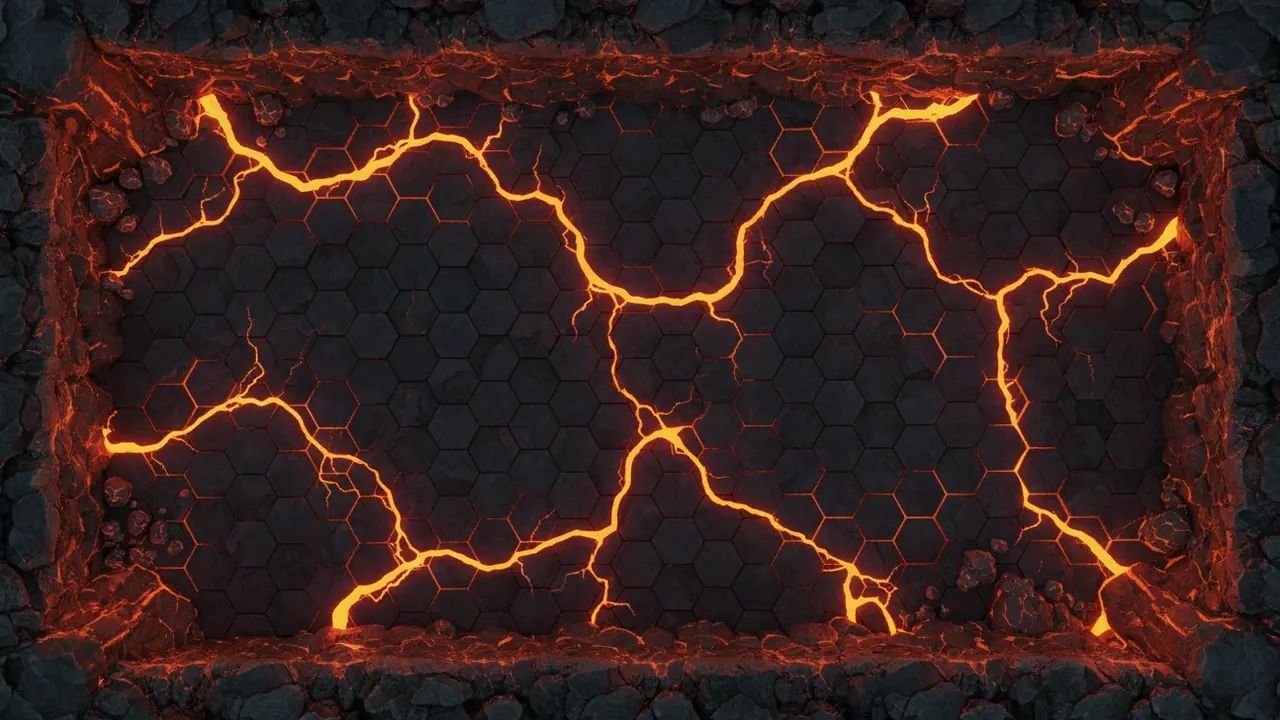
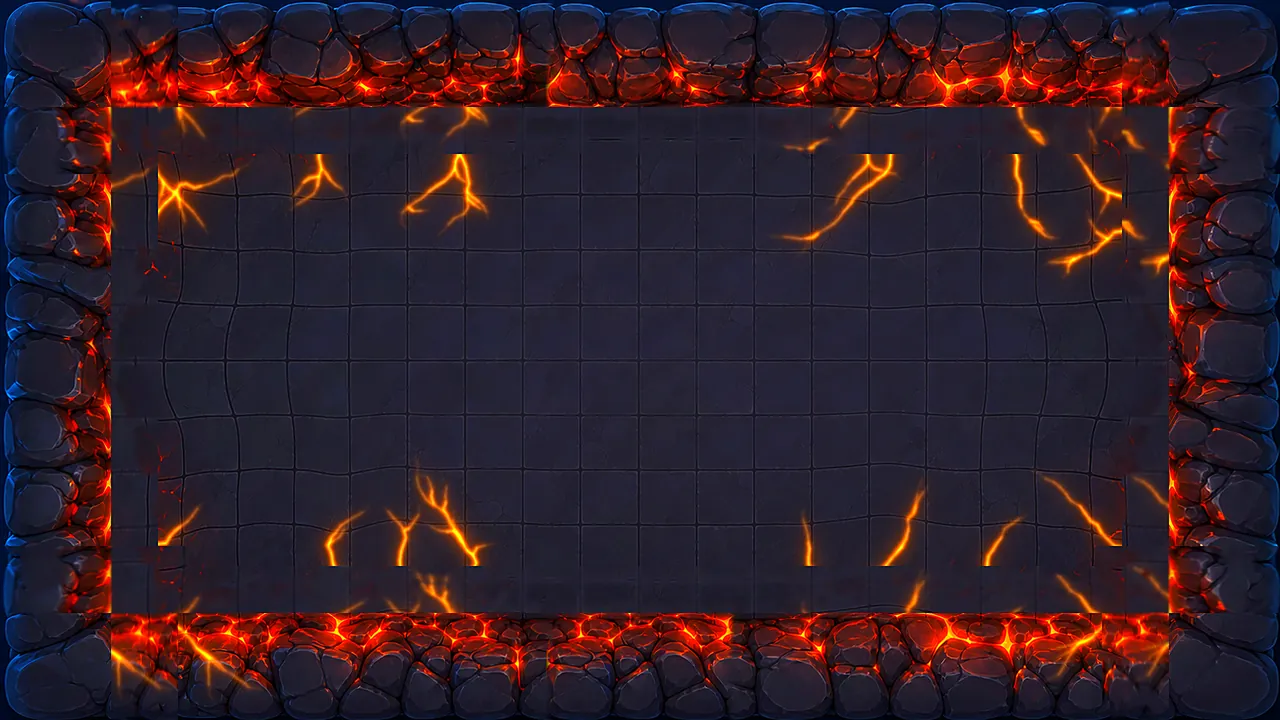
Glimmerdeep: Wilds art refresh, batch 1 (#399)
Replace the four room paintings and seven Wilds props, draw the crack at the door width, and size the tamer at 1.3.

diff --git a/glimmerdeep/wilds.js b/glimmerdeep/wilds.js
@@ -461,7 +461,7 @@ function draw() {
   // creatures and the tamer, back to front
   const ents = V.mons.map(m => ({ y: m.y, f: () => sprite(ctx, img('cr_' + room().mon.sp + room().mon.star), ox + m.x * S, oy + m.y * S, m.sz * S, m.fx || -1, Math.sin(m.bob) * 0.04, m.lair, m.shiny) }));
   for (const [x, y, rr] of rockList(room())) ents.push({ y, f: () => drawRock(ctx, ox, oy, S, x, y, rr) });
-  ents.push({ y: V.py, f: () => { if (V.inv > 0 && Math.floor(V.inv * 10) % 2) ctx.globalAlpha = 0.5; sprite(ctx, img('wd_tamer'), ox + V.px * S, oy + V.py * S, 1.15 * S, V.fx, Math.abs(Math.sin(V.walk)) * 0.07, false); ctx.globalAlpha = 1; } });
+  ents.push({ y: V.py, f: () => { if (V.inv > 0 && Math.floor(V.inv * 10) % 2) ctx.globalAlpha = 0.5; sprite(ctx, img('wd_tamer'), ox + V.px * S, oy + V.py * S, 1.3 * S, V.fx, Math.abs(Math.sin(V.walk)) * 0.07, false); ctx.globalAlpha = 1; } });
   ents.sort((p, q) => p.y - q.y).forEach(e => e.f());
   for (const p of V.parts) {
     ctx.globalAlpha = 1 - p.t / p.life; ctx.fillStyle = p.c;
@@ -490,7 +490,7 @@ function drawRoom(a, ox, oy, S, live) {
     const [x, y, rot] = DOOR[d], im = img(st === 'open' ? 'wd_door' : st === 'lock' ? 'wd_lock' : 'wd_crack');
     if (!ready(im)) continue;
     ctx.save(); ctx.translate(ox + x * S, oy + y * S); ctx.rotate(rot);
-    const w = (st === 'crack' ? 1.5 : 1.9) * S;
+    const w = 1.9 * S;
     ctx.drawImage(im, -w / 2, -w * 0.62, w, w);
     ctx.restore();
   }
